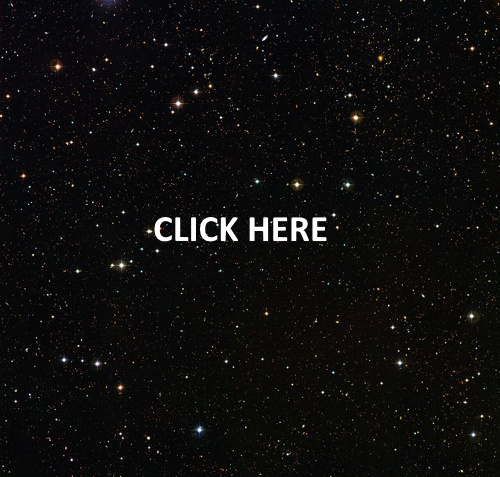
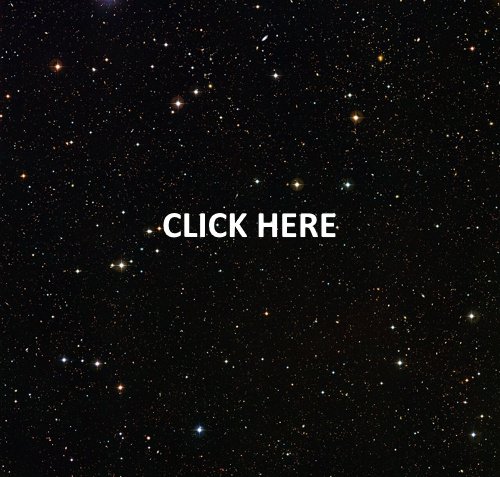
Work on stargazing

Changed region(s): [[0.3, 0.4403, 0.69, 0.5283]]

diff --git a/src/components/ui/January2026.tsx b/src/components/ui/January2026.tsx
@@ -12,7 +12,7 @@ import CathedralShop from '/public/imagesresized/CathedralShop.jpg';
 import CathedralBooks from '/public/imagesresized/CathedralBooks.jpg';
 import ArabianSands from '/public/imagesresized/ArabianSands.jpg';
 import ArthurBooks from '/public/imagesresized/ArthurBooks.jpg';
-import DarkSkyTitled from '/public/imagesresized/DarkSkyTitled.jpg';
+import DarkSkyMathiasMHTitled from '/public/imagesresized/DarkSkyMathiasMHTitled.jpg';
 
 
 
@@ -72,7 +72,7 @@ export default function January2026() {
          < div className="text-md md:text-lg max-w-full font-normal mt-4 mb-4 p-2 text-white text-center md:text-left justify-center items-center bg-black">
 
           <div className="font-normal pt-8 py-2  text-[#D99e49] text-center"> 8th January 2026</div> {/*End of news date block*/} 
-          <div className="font-normal pt-2 pb-4 py-2 md:px-4 text-[#D99e49] text-center"> Visit to Durham to see the Cathedral </div>
+           <div className="font-bold m-4 pt-2 pb-4 py-2 md:px-4 text-black text-center  border-gray-800 border-solid border-2 bg-[#D99e49]"> Visit to Durham to see the Cathedral. </div>
         <div className="text-[#D99e49] text-left md:text-left mb-4 pr-4 pl-4">Today we made a last-minute decision to visit Durham for the day. It was a beautiful drive along the A69 and A68 across Blanchland and the Upper Derwent with some spectacular views.
            <br />
           <br />
@@ -136,21 +136,35 @@ export default function January2026() {
       <div className="flex flex-col max-w-full leading-1.5 p-1 md:p-2 lg:p-4 m-4 border-gray-800 border-solid border-2 bg-[#bdbeba]">
          < div className="text-md md:text-lg max-w-full font-normal mt-4 mb-4 p-2 text-white text-center md:text-left justify-center items-center bg-black">
 
-          <div className="font-normal pt-8 py-2  text-[#D99e49] text-center"> 18th January 2026</div> {/*End of news date block*/} 
-          <div className="font-normal pt-2 pb-4 py-2 md:px-4 text-[#D99e49] text-center"> Stargazing at the Dark Skies ....or rather,  </div>
-        <div className="text-black text-left md:text-center mb-4 pr-4 pl-4 ">
-                <div className="m-1 pr-1 pl-1 pt-4 pb-4 font-semibold  border-gray-800 border-solid border-2 bg-[#D99e49] mb-6">Click on the image below to open the album <br /> of our Stargazing evening meal and event.</div>
+          <div className="font-semibold pt-8 py-2  text-[#D99e49] text-center"> 18th January 2026</div> {/*End of news date block*/} 
+          <div className="font-bold m-4 pt-2 pb-4 py-2 md:px-4 text-black text-center  border-gray-800 border-solid border-2 bg-[#D99e49]"> Stargazing at the Dark Skies ....or rather, indoor stargazing <br /> at the night sky via the planetarium, <br /> as it was too cloudy outside. </div>
+        <div className="text-black text-center md:text-center mb-4 md:*:pr-6 md:*:pl-6 ">
+          <div className="text-[#D99e49] text-left md:text-left mb-4 pr-4 pl-4">One of the items on our 'To Do' list for this year has been to go up to the Kielder Observatory situated in the wilds of the Kielder Water and Forest Park, close to the Scottish Border. <Link href=" https://kielderobservatory.org/" target="_blank" className="text-[#bdbeba] font-semibold"></Link> 
+          <br />
+          <br /> 
+          The Kielder Observatory is a public astronomical observatory and educational charity located in Europe’s largest Gold-Tier International Dark Sky Park. Getting to Kielder itself however, is rather an interesting drive, even for experienced remote countryside drivers like ourselves and certainly more challenging in the dark and jn poor weather conditions. 
+          <br />
+          <br /> 
+          So we were delighted to discover that since September 2025, the team at <Link href=" https://twicebrewedinn.co.uk/" target="_blank" className="text-[#bdbeba] font-semibold">Twice Brewed Inn</Link>, located on the Hadrian's Wall route, near Bardon Mill in rural Northumberland,  have joined up with the astronomers at <Link href=" https://kielderobservatory.org/" target="_blank" className="text-[#bdbeba] font-semibold">Kielder Observatory</Link>  and their team to run <Link href=" https://twicebrewedinn.co.uk/stargazing-at-twice-brewed-inn/" target="_blank" className="text-[#bdbeba] font-semibold">Star Gazing Events</Link> at the <Link href=" https://twicebrewedinn.co.uk/" target="_blank" className="text-[#bdbeba] font-semibold">Twice Brewed Inn</Link>. <Link href=" https://twicebrewedinn.co.uk/" target="_blank" className="text-[#bdbeba] font-semibold">Twice Brewed Inn</Link> is located within the protected Dark Sky park, thus benefitting from minimal light pollution. It is also more easily than Kielder water, not just for visitors but also for the observatory staff themselves. 
+           <br />
+          <br /> 
+          To be able to do this, and accommodate the often inclement weather in this area, the owners of Twice Brewed Inn have constructed an area called 'The Space', where the astronomers can host talks, and also a <Link href="https://twicebrewedinn.co.uk/planetarium/" target="_blank" className="text-[#bdbeba] font-semibold">Planetarium</Link>, which is a purpose-built 360 degree immersive dome which brings to life the universe.   </div>
+                <div className="m-1 pr-2 pl-2 pt-4 pb-4 font-bold  border-gray-800 border-solid border-2 bg-[#D99e49] mb-6">Click on the image below to open the album <br /> of our Stargazing evening meal and event. 
+                <br />
+          <br /> 
+                Please make sure to click on the <em>'i'</em> icon, in the top right-hand corner of each photo, as we have included a lot of additional information about the photo and event in that space.</div>
+                
           <Link
                 href="https://photos.app.goo.gl/Ps8ySrfrgSGXGTTL8"
                 target="_blank"
               >
          <Image
-                  src={ DarkSkyTitled}
+                  src={ DarkSkyMathiasMHTitled}
                   className="block ml-auto mr-auto h-auto w-[90%] md:w-[70%] lg:w-[60%] border-solid border-black-400 border-4 mt-1 mb-11 rounded-[70%]"
                   alt="Photo of starry sky."
                 />
                 </Link>
-                 <div className="relative text-lg -mt-16 text-white pt-12 ml-4"><em>Creative Commons Licence </em></div>
+                 <div className="relative text-xs -mt-16 text-white pt-12 ml-4"><em>By <Link href="https://www.flickr.com/people/125204407@N08">MATHIAS, M H</Link> from Guaratinguetá, Brasil,  <Link href="https://creativecommons.org/licenses/by/2.0" title="Creative Commons Attribution 2.0">CC BY 2.0</Link>, <Link href="https://commons.wikimedia.org/w/index.php?curid=101329205">Link</Link></em></div>
                
                 </div>
                
